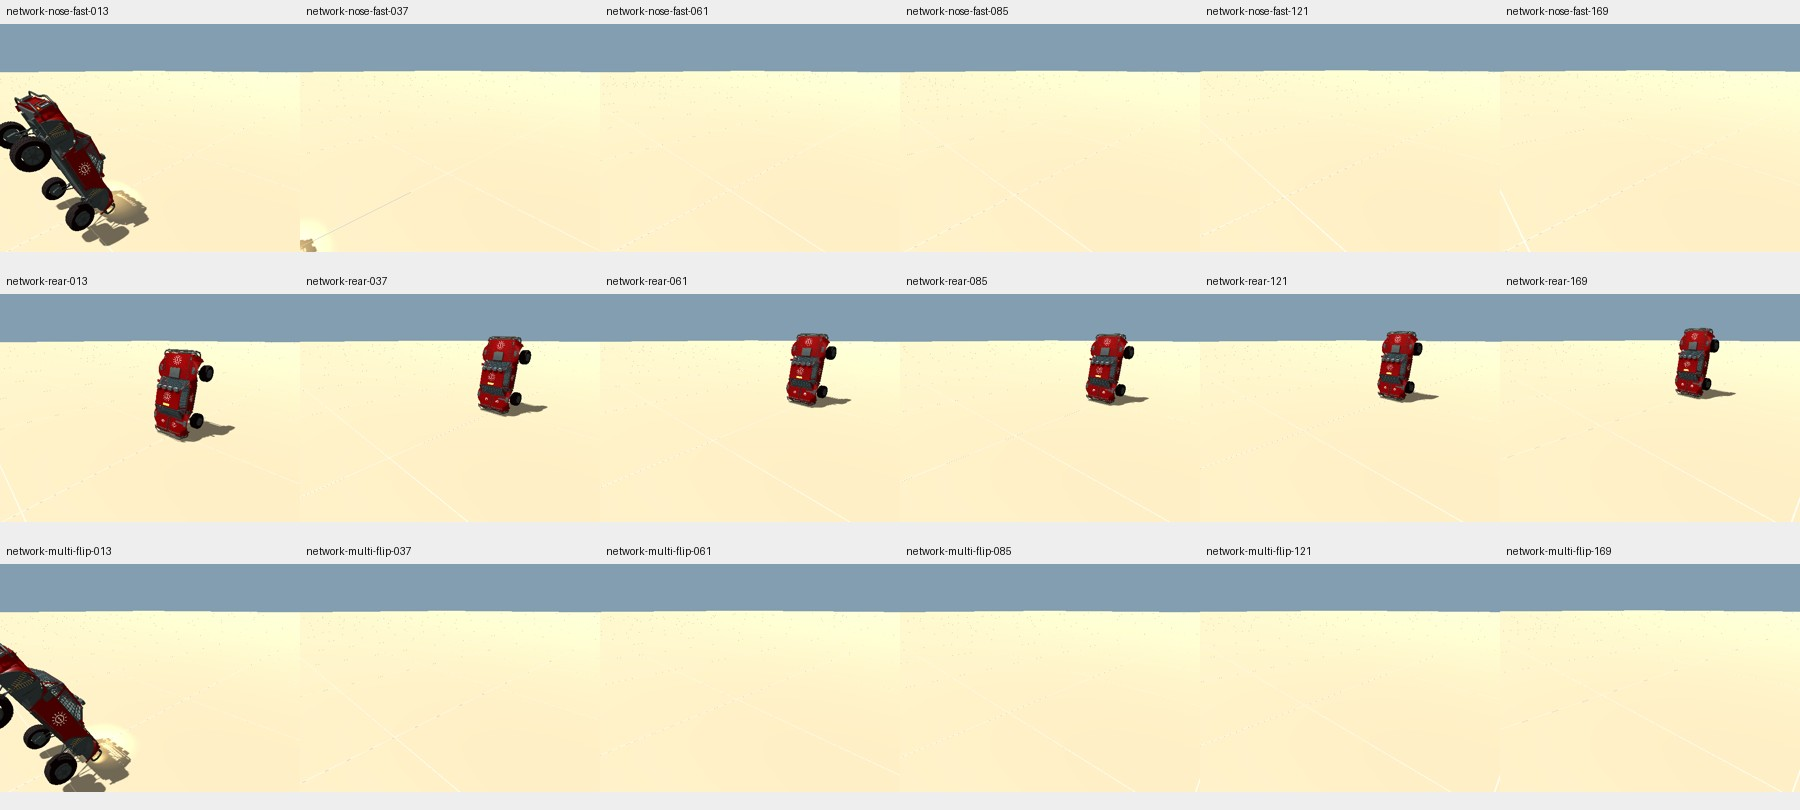
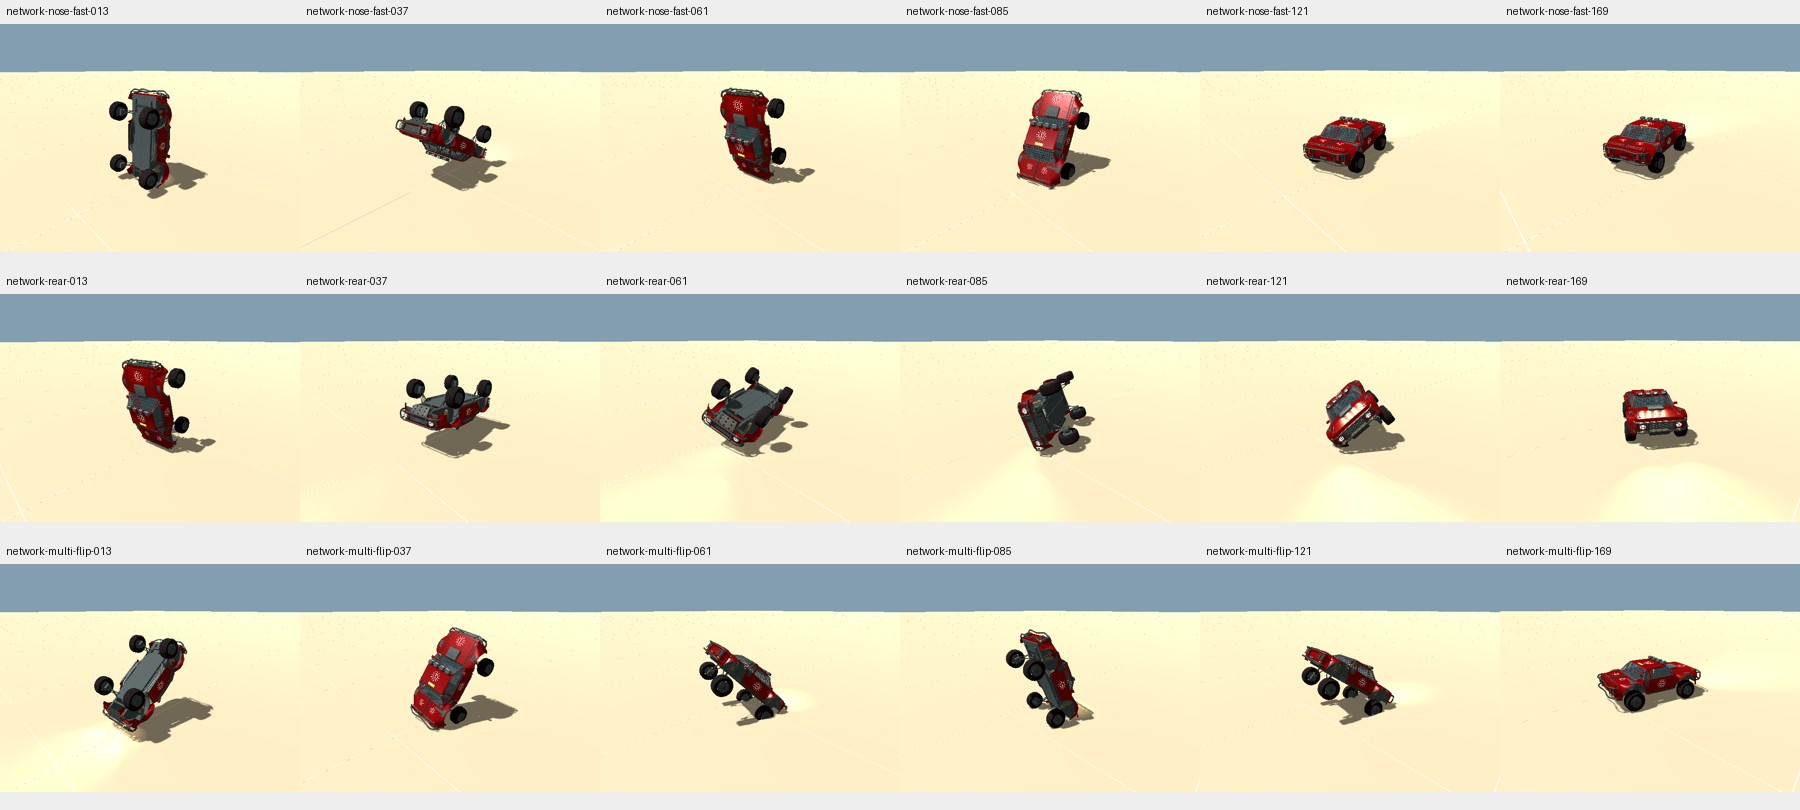
TS-265 correct network visual evidence and synchronize review documentation

diff --git a/code/Core/Vehicles/VehicleSnapshotCodec.cs b/code/Core/Vehicles/VehicleSnapshotCodec.cs
@@ -27,13 +27,13 @@ public static class VehicleSnapshotCodec
     }
 
     /// <summary>Rejects unknown versions, oversized/truncated payloads and invalid nested gameplay state.</summary>
-    /// <param name="bytes">One version-four aggregate envelope.</param>
+    /// <param name="bytes">One version-five aggregate envelope.</param>
     /// <returns>Validated vehicle state, independent of any native object.</returns>
     public static VehicleSnapshot Decode(ReadOnlySpan<byte> bytes)
     {
         if (bytes.Length is < 2 or > 65536 || bytes[0] != 5)
         {
-            throw new ArgumentException("Expected a bounded version-four vehicle aggregate.", nameof(bytes));
+            throw new ArgumentException("Expected a bounded version-five vehicle aggregate.", nameof(bytes));
         }
 
         try

diff --git a/code/Client/Verification/CrashRecoveryChecks.cs b/code/Client/Verification/CrashRecoveryChecks.cs
@@ -36,6 +36,11 @@ public sealed partial class CrashRecoveryChecks : Node3D
 
     public override void _Ready() => CallDeferred(MethodName.Run);
 
+    public override void _Process(double delta)
+    {
+        if (_running) { _network?.PresentLocal((float)delta); }
+    }
+
     public override void _PhysicsProcess(double delta)
     {
         if (!_running) { return; }

diff --git a/docs/verification/ts-265.md b/docs/verification/ts-265.md
@@ -36,7 +36,7 @@ Godot `$g`: `C:/Users/orsin/OneDrive/Desktop/godot/Godot_v4.7.2-stable_mono_win6
 | `./check-reconnect.ps1` | PASS: three arena resyncs, including 125 s offline; retained native bodies, prediction reset and full gameplay state restore over local UDP. Identity is a test seam. |
 | `./check-migration.ps1` | PASS: three native UDP peers, active authority loss, sequential epochs, retained vehicles and full gameplay restoration. Identity is a test seam. |
 
-The early sandboxed runtime attempt could not write Godot user logs/read the certificate store. Subsequent runtime verification used authorized native access and completed without those startup errors. The first native nose-impact attempt reversed the flip; the shared terrain response corrected it before final verification. An earlier partial-wheel rule incorrectly forgave a steep bumper hit; the final footprint condition and regression test corrected it. An old secondary-impact fixture sometimes landed on its wheels; its explicit verification impulse now produces a body strike. Trophy hop checks allow up to 3.5 m/s (0.56 m ballistic rise at production gravity) for genuine pivot/contact motion, instead of treating any small hop as a launch.
+The early sandboxed runtime attempt could not write Godot user logs/read the certificate store. Subsequent runtime verification used authorized native access and completed without those startup errors. The first native nose-impact attempt reversed the flip; the shared terrain response corrected it before final verification. An earlier partial-wheel rule incorrectly forgave a steep bumper hit; the final footprint condition and regression test corrected it. An old secondary-impact fixture sometimes landed on its wheels; its explicit verification impulse now produces a body strike. Trophy hop checks allow up to 3.5 m/s (0.56 m ballistic rise at production gravity) for genuine pivot/contact motion, instead of treating any small hop as a launch. The first network visual fixture omitted per-frame presentation, leaving its rendered truck at the spawn transform despite valid simulation metrics. The fixture now calls the production `PresentLocal` path; all 22 rendered scenarios and the complete `check.ps1` gate passed again, and replacement network images were directly inspected before formal Astra review.
 
 ## Direct runtime evidence
 
@@ -52,7 +52,7 @@ Final [runtime output](ts-265/crash-runtime.log) and [per-scenario summary](ts-2
 
 ## Review status
 
-Implementation verification is complete. Independent engineering review and formal Astra runtime critique are pending; no score or human acceptance is claimed in this pre-review checkpoint.
+Independent engineering review: **PASS** for implementation commit `79210d8999a03cc0ce917b1e6967158644a61f53` against `origin/main`, and **PASS** on the follow-up fixture/documentation delta. The reviewer independently ran 65 focused Release tests covering crash recovery, landing damage, trophy-truck behavior and replication; all passed. No material production defect was identified. Minor stale protocol-version wording was corrected. Formal Astra runtime critique remains pending; no score or human acceptance is claimed here.
 
 ## Assumptions, limitations and explicitly unverified areas
 

diff --git a/docs/features/vehicles.md b/docs/features/vehicles.md
@@ -91,7 +91,7 @@ Damage feedback is Client-only: identification-panel flashes, a dark panel color
 
 ## Terrain landing recovery
 
-Tire-down landings are safe at any impact speed, including suspension bottom-out. Core excludes a terrain underside contact before damage selection when its point is below the local origin by more than 0.15 m and the truck is within the terrain-relative landing envelope (50 degrees roll / 40 degrees pitch), or an actual wheel is supported with the chassis underside facing the terrain. The latter admits partial-wheel touchdowns outside the ordinary attitude envelope. This immunity does not expire, depend on an airborne episode, or consume a damage cooldown. Roof, side and bumper/body contacts remain eligible, including during the same observation as a safe tire contact. Obstacles and other vehicles never receive terrain landing immunity.
+Tire-down landings are safe at any impact speed, including suspension bottom-out. Core excludes a terrain underside contact before damage selection when its point is below the local origin by more than 0.15 m and the truck is within the terrain-relative landing envelope (50 degrees roll / 40 degrees pitch), or an actual wheel is supported with the chassis underside facing the terrain and the contact inside the longitudinal wheel footprint. The latter admits partial-wheel touchdowns outside the ordinary attitude envelope while preserving steep outboard bumper strikes. This immunity does not expire, depend on an airborne episode, or consume a damage cooldown. Roof, side and bumper/body contacts remain eligible, including during the same observation as a safe tire contact. Obstacles and other vehicles never receive terrain landing immunity.
 
 `LandingState` retains airborne/recovery classification for feedback and a six-bit body-contact mask for damage continuation. A terrain body impact is eligible when it starts after separation or reaches a new body face. Multiple points on that face and continuing contact coalesce. Fresh impacts use the existing severity-to-HP curve immediately, even inside the general collision cooldown; three separate roof hits can therefore damage three times in one crash. Static obstacles and vehicle collisions retain their existing strongest-contact/cooldown policy. The complete aggregate and network codecs preserve the mask, preventing a restore from manufacturing a fresh hit.
 

diff --git a/docs/features/vehicle-networking.md b/docs/features/vehicle-networking.md
@@ -102,7 +102,7 @@ Machine-gun requests reuse sustained item activation and originating-input seque
 
 [Destructible environment](destructible-environment.md) adds match-owned staged rocks and cleared soft cover. Both native adapters consume the same Core state; version-three resume checkpoints and nested migration retain damage, stages, movement continuation and plant bits without replaying impacts. New matches restore authored state.
 
-Air Roll travels as bit 2048 in the existing input frame. The version-eight movement payload adds 28 bytes for elapsed airborne time, filtered local input and stabilization ramps. Host simulation and prediction use the same air-control function; complete aggregate, world, resume and migration encodings retain that continuation. Retuning preserves it and new vehicle lives clear it. The world protocol is version thirteen; configuration is version thirty-three. No new authority or independent orientation stream exists. See [airborne rotation](vehicles.md#player-controlled-airborne-rotation).
+Air Roll travels as bit 2048 in the existing input frame. The version-eight movement payload adds 28 bytes for elapsed airborne time, filtered local input and stabilization ramps. Host simulation and prediction use the same air-control function; complete aggregate, world, resume and migration encodings retain that continuation. Retuning preserves it and new vehicle lives clear it. The world protocol is version fourteen; configuration is version thirty-three. No new authority or independent orientation stream exists. See [airborne rotation](vehicles.md#player-controlled-airborne-rotation).
 [Out-of-bounds damage](out-of-bounds.md) uses the authored oval perimeter, existing health/lifecycle authority and confirmed HUD feedback. Its life-scoped state survives tuning and checkpoint recovery; prediction never originates it.
 
 Brake-to-reverse continuation occupies two previously reserved movement flags (163-byte movement v12). Raw physical brake edges use input-mask bit 4096 without expanding the 21-byte frame. World protocol v14 rejects older peers. Snapshot/replay, retuning and recovery preserve the gate; no client-only reverse permission exists.

diff --git a/docs/features/developer-options.md b/docs/features/developer-options.md
@@ -46,7 +46,7 @@ Complete session publications reach lobby clients and late arrivals even before 
 
 The reliable version-thirty-five `TC` message carries arena generation, configuration revision and all 205 values (1661 bytes). Catalog order is part of this schema; additions/reordering require a version change. A client accepts configuration only from its established host over reliable delivery for the current arena. Lower revisions and conflicting duplicate revisions are rejected; identical duplicates are idempotent. The first complete revision-zero configuration may differ from canonical defaults because a host can start with persisted overrides.
 
-The host sends configuration before its reliable world boundary on admission or edits. Version-thirteen `TS` world snapshots include the configuration revision; clients reject world/item boundaries for a different revision, preventing mismatched simulation. Subsequent unreliable snapshots recover normal movement after an ordered tuning change. EOS lobby metadata does not store gameplay tuning. Discovery compatibility is `trackstorm-lobby-16`.
+The host sends configuration before its reliable world boundary on admission or edits. Version-fourteen `TS` world snapshots include the configuration revision; clients reject world/item boundaries for a different revision, preventing mismatched simulation. Subsequent unreliable snapshots recover normal movement after an ordered tuning change. EOS lobby metadata does not store gameplay tuning. Discovery compatibility is `trackstorm-lobby-16`.
 
 Version-three `TR` resume checkpoints include and cross-validate the entire configuration and revision against vehicles and match target. Resume installs tuning before reconstructing prediction, resets history, and updates native bodies. Joining clients never inject their own host-local file into this path. See [reconnection](reconnection.md).
 
